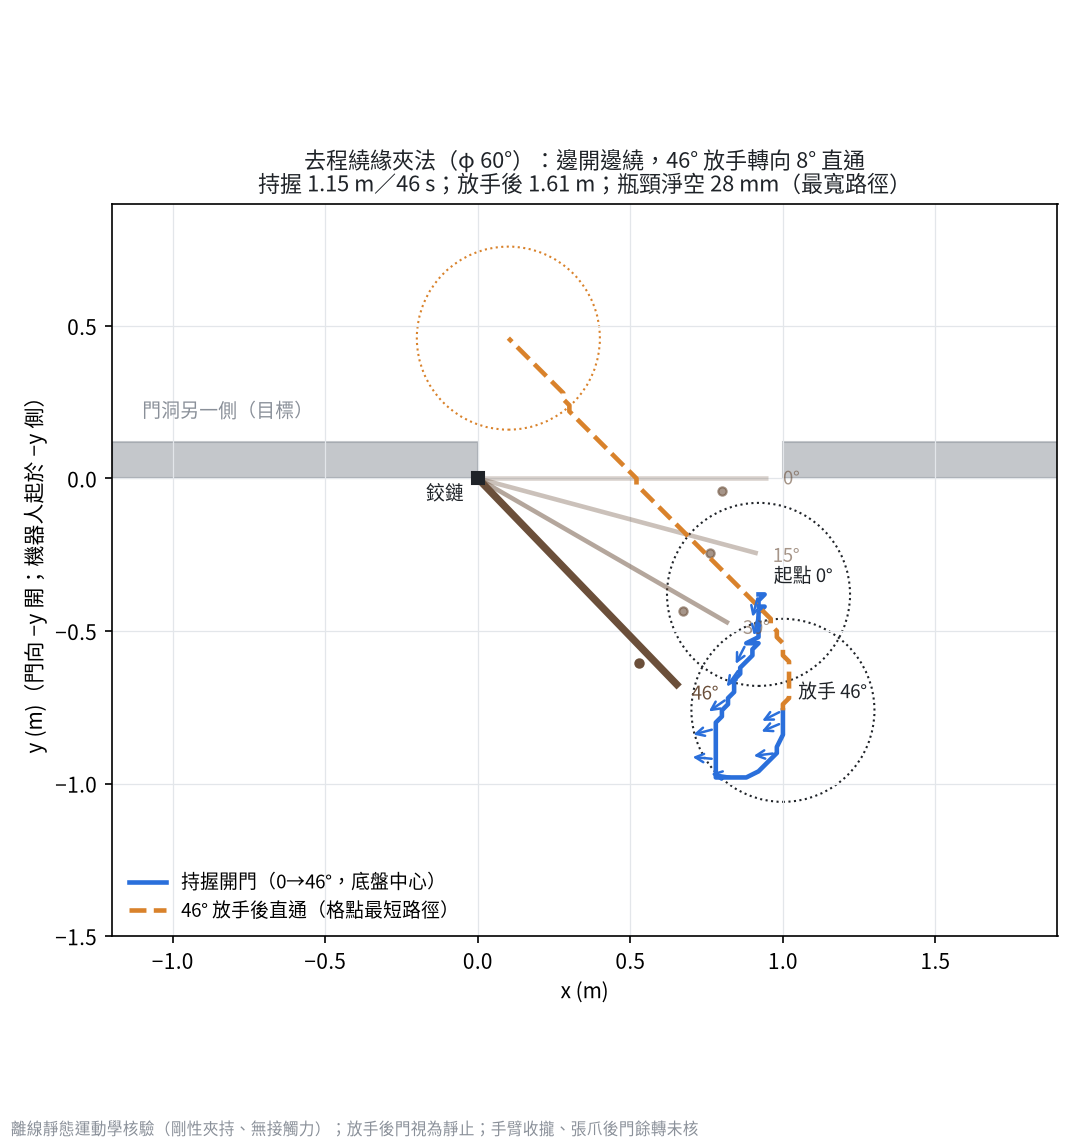
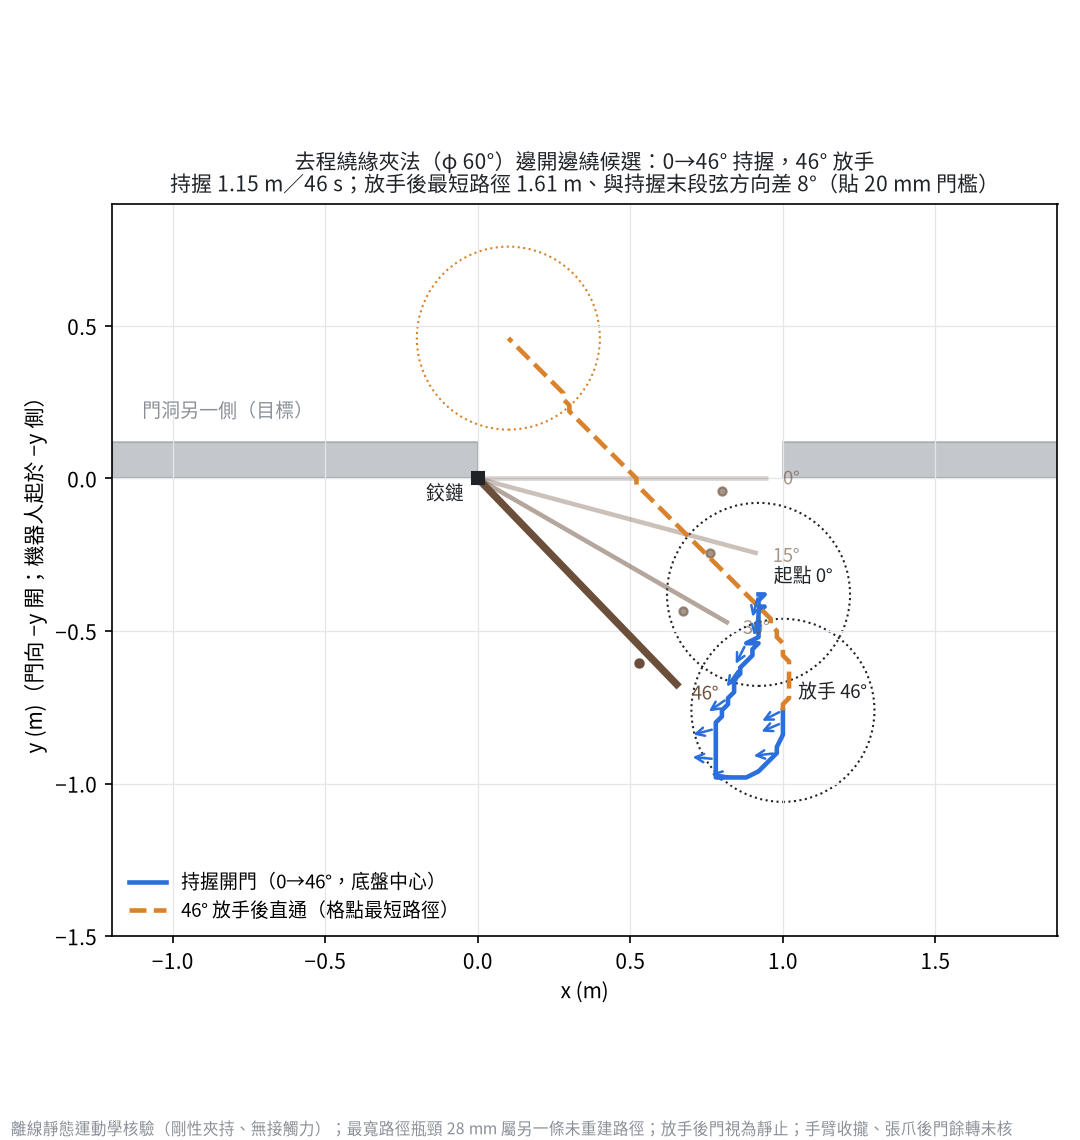
邊開邊過盤點 r1：依 Codex 20261026_183611 更正措辭（掃描未找到≠不可能、8° 與 28 mm 非同一路徑、回程過牆面 34°、roll180 餘裕較小）

Changed region(s): [[0.1528, 0.1228, 0.9167, 0.1842], [0.3056, 0.9825, 0.9472, 1.0]]

diff --git a/evaluation/plot_door_coopen_edgearc_v1.py b/evaluation/plot_door_coopen_edgearc_v1.py
@@ -50,9 +50,9 @@ def main():
     ax.plot(0, 0, 's', color=INK, ms=6)
     ax.text(-0.17, -0.07, '鉸鏈', fontsize=9, color=INK)
     hs, rel = b['hold'], b['release']
-    ax.set_title(f"去程繞緣夾法（φ 60°）：邊開邊繞，46° 放手轉向 {rel['turn_deg']:.0f}° 直通\n"
-                 f"持握 {hs['path_len_m']:.2f} m／{hs['duration_s']:.0f} s；放手後 {rel['len_m']:.2f} m；瓶頸淨空 28 mm（最寬路徑）",
-                 fontsize=10.5, color=INK)
+    ax.set_title(f"去程繞緣夾法（φ 60°）邊開邊繞候選：0→46° 持握，46° 放手\n"
+                 f"持握 {hs['path_len_m']:.2f} m／{hs['duration_s']:.0f} s；放手後最短路徑 {rel['len_m']:.2f} m、與持握末段弦方向差 {rel['turn_deg']:.0f}°（貼 20 mm 門檻）",
+                 fontsize=10, color=INK)
     ax.set_xlim(-1.2, 1.9)
     ax.set_ylim(-1.5, 0.9)
     ax.set_aspect('equal')
@@ -60,7 +60,7 @@ def main():
     ax.set_xlabel('x (m)')
     ax.set_ylabel('y (m)（門向 −y 開；機器人起於 −y 側）')
     ax.legend(loc='lower left', fontsize=9, frameon=False)
-    fig.text(0.01, 0.005, '離線靜態運動學核驗（剛性夾持、無接觸力）；放手後門視為靜止；手臂收攏、張爪後門餘轉未核', fontsize=7.5, color=MUTED)
+    fig.text(0.01, 0.005, '離線靜態運動學核驗（剛性夾持、無接觸力）；最寬路徑瓶頸 28 mm 屬另一條未重建路徑；放手後門視為靜止；手臂收攏、張爪後門餘轉未核', fontsize=7.5, color=MUTED)
     fig.tight_layout()
     fig.savefig(out, dpi=150)
 

diff --git a/第七次進度報告素材/產生程式/plot_door_coopen_edgearc_v1.py b/第七次進度報告素材/產生程式/plot_door_coopen_edgearc_v1.py
@@ -50,9 +50,9 @@ def main():
     ax.plot(0, 0, 's', color=INK, ms=6)
     ax.text(-0.17, -0.07, '鉸鏈', fontsize=9, color=INK)
     hs, rel = b['hold'], b['release']
-    ax.set_title(f"去程繞緣夾法（φ 60°）：邊開邊繞，46° 放手轉向 {rel['turn_deg']:.0f}° 直通\n"
-                 f"持握 {hs['path_len_m']:.2f} m／{hs['duration_s']:.0f} s；放手後 {rel['len_m']:.2f} m；瓶頸淨空 28 mm（最寬路徑）",
-                 fontsize=10.5, color=INK)
+    ax.set_title(f"去程繞緣夾法（φ 60°）邊開邊繞候選：0→46° 持握，46° 放手\n"
+                 f"持握 {hs['path_len_m']:.2f} m／{hs['duration_s']:.0f} s；放手後最短路徑 {rel['len_m']:.2f} m、與持握末段弦方向差 {rel['turn_deg']:.0f}°（貼 20 mm 門檻）",
+                 fontsize=10, color=INK)
     ax.set_xlim(-1.2, 1.9)
     ax.set_ylim(-1.5, 0.9)
     ax.set_aspect('equal')
@@ -60,7 +60,7 @@ def main():
     ax.set_xlabel('x (m)')
     ax.set_ylabel('y (m)（門向 −y 開；機器人起於 −y 側）')
     ax.legend(loc='lower left', fontsize=9, frameon=False)
-    fig.text(0.01, 0.005, '離線靜態運動學核驗（剛性夾持、無接觸力）；放手後門視為靜止；手臂收攏、張爪後門餘轉未核', fontsize=7.5, color=MUTED)
+    fig.text(0.01, 0.005, '離線靜態運動學核驗（剛性夾持、無接觸力）；最寬路徑瓶頸 28 mm 屬另一條未重建路徑；放手後門視為靜止；手臂收攏、張爪後門餘轉未核', fontsize=7.5, color=MUTED)
     fig.tight_layout()
     fig.savefig(out, dpi=150)
 

diff --git a/reviews/20261026_183611_reply.md b/reviews/20261026_183611_reply.md
@@ -1,0 +1,51 @@
+裁定：**方向符合 Howard 澄清後的「邊開邊往出口繞」，可繼續離線核對；目前不核可實跑。** 下一包集中在 q45、roll＝0 的繞緣候選，不再延伸閉爪卸載、停止退離那條主線。
+
+## 1. 任務要求與成果層級
+
+請後續規格固定寫明：
+
+> 開門期間，底盤就沿通往出口的路徑移動；允許在運動中解除持握，但放手前後不安排停止、退離再重新起步。不要求持握把手直到整機通過。
+
+依本次轉述的 Howard 補充，這種方案形態可以接受。但目前只能稱「候選」，不能稱已驗證不停頓的連續通行。
+
+另有三處結論需要更正：
+
+- **「任何夾法都不可能握著完成通過」證據不足。** [reach_bound](/home/howardchen/masterthesis/evaluation/door_coopen_edgehold_v1.py:117) 是有限門角、有限範圍的格點最小距離，不是連續空間的全域下界；約 0.44 m 伸距也須核對安裝點、工具與實際接觸點。改稱「現有掃描未找到持握完成通過的方案」。不必為此另外展開全域不可能性證明。
+- **8° 與 28 mm 不是同一條已驗證路徑的共同指標。** [8°](/home/howardchen/masterthesis/evaluation/door_coopen_edgearc_v1.py:50) 比較的是持握末段與最短路徑前 0.30 m 的弦方向；[最寬搜尋](/home/howardchen/masterthesis/evaluation/door_coopen_widest_v1.py:28) 目前只回傳瓶頸值，沒有重建路徑。兩者不能合稱「轉向 8°、淨空 28 mm 的連續軌跡」。
+- 回程的「底盤中心過牆面時 23°」有程式取值錯位：[條件實際是 y≤0.12](/home/howardchen/masterthesis/evaluation/door_coopen_return_v1.py:91)，既有軌跡首次 y≤0 是約 **34°**。此外，推門 TCP 設有 15 mm standoff，尚未建立實際推觸部件與接觸契約；應稱「推門方向的運動學候選」，不能稱已證明全程接觸。
+
+## 2. 所有權選 A，但保護架構不能省略
+
+同意以 **A：W-GMPC 持續持有，直到整機離開門洞再交還導航** 作為設計方向，避免在狹窄處換發布者。
+
+但這只裁定命令所有權，**不是核可用 W-GMPC 取代 GMPC／動態預測 CBF 的避障保護**。
+
+下一包須交代實際跑法的命令鏈、平滑器、shield／CBF 與執行端限制器位置。不能因為路徑只有 28 mm，便直接縮小安全距離；已知門幾何的模型、定位誤差、門運動、資料年齡與停止餘量須一起登錄，未知障礙與資料失效保護仍保留。
+
+## 3. 下一包離線核對順序
+
+請一次整合送審，避免繼續多支候選平行擴張。
+
+1. **先核繞緣抓取契約，並做起點接近的快速可行性檢查。**  
+   核對開指接近、閉合、兩側接觸面與法向、門緣干涉。17 mm 手指非設計碰撞淨空不等於夾持成立，也不等於張爪後具備解除淨空。
+
+2. **先做誤差與門餘轉的淘汰檢查，再投入完整平滑。**  
+   28.35 mm 相對底盤 20 mm 門檻只多約 **8.35 mm**；若承受最不利方向 10 mm 位置誤差，就已不足。持握段底盤最小 22 mm、自碰約 6 mm，也很薄。  
+   門餘轉不能假定為零；既有失敗趟可作壓力情境，但不能當成新抓法的餘轉上界。若誤差預算不成立，先改路徑／放手位置，不降低門檻。
+
+3. **重建同一條完整路徑，再驗連續性與掃掠。**  
+   重建最寬路徑，連同底盤偏航、張爪、手臂回收一起平滑化；補查持握節點間、格點連線間及收臂掃掠。用同一條時間化軌跡報放手前後速度、加速度、輪級限制與最小淨空。  
+   「方向差小」不等於速度連續；回收也必須在底盤繼續沿出口路徑移動時可行。
+
+4. **最後補完整 H0 與出口交還。**  
+   從實際導航／K2_READY 狀態接到新停位及抓法，不能直接以已抓住的組態當任務起點；交還位置須確認整機包絡已清出門洞。
+
+新抓法應重新推導解除幾何限制，不能直接沿用舊 K3-B 的門角帶，也不能因門轉動便放寬它。
+
+## 4. 候選收斂
+
+同意停止正面夾法 arc v1–v4 的擴充，保留結果與事後方法修改揭露；結論限於「既有搜尋未找到連續可行方案」。
+
+主候選選 **q45、roll＝0**。roll＝180 雖路徑相似，底盤最小淨空約 20.08 mm、關節餘裕也較小，不能稱兩者餘裕幾乎相同。q60 與回程先封存為備選。
+
+**本輪只核可上述離線補證；不核可 Isaac、不新增影片，也不恢復卸載／退離實跑。**
